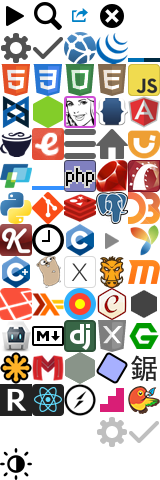
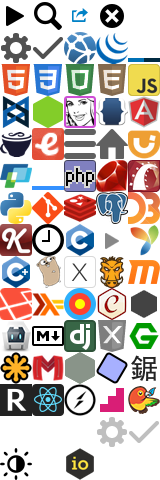
Add io.js documentation

Changed region(s): [[0.4062, 0.9375, 0.5938, 1.0]]

diff --git a/assets/stylesheets/global/_icons.scss b/assets/stylesheets/global/_icons.scss
@@ -84,3 +84,4 @@
 %icon-check-white           { background-position: -4rem -13rem; }
 %icon-light                 { background-position: 0 -14rem; }
 %icon-light-white           { background-position: -1rem -14rem; }
+._icon-iojs:before          { background-position: -2rem -14rem; }

diff --git a/lib/docs/scrapers/iojs.rb b/lib/docs/scrapers/iojs.rb
@@ -1,0 +1,21 @@
+module Docs
+  class Iojs < UrlScraper
+    self.name = 'io.js'
+    self.slug = 'iojs'
+    self.type = 'node'
+    self.version = '1.2.0'
+    self.base_url = 'https://iojs.org/api/'
+
+    html_filters.push 'node/clean_html', 'node/entries', 'title'
+
+    options[:title] = false
+    options[:root_title] = 'io.js'
+    options[:container] = '#apicontent'
+    options[:skip] = %w(index.html all.html documentation.html synopsis.html)
+
+    options[:attribution] = <<-HTML
+      &copy; io.js contributors<br>
+      Licensed under the MIT License.
+    HTML
+  end
+end
